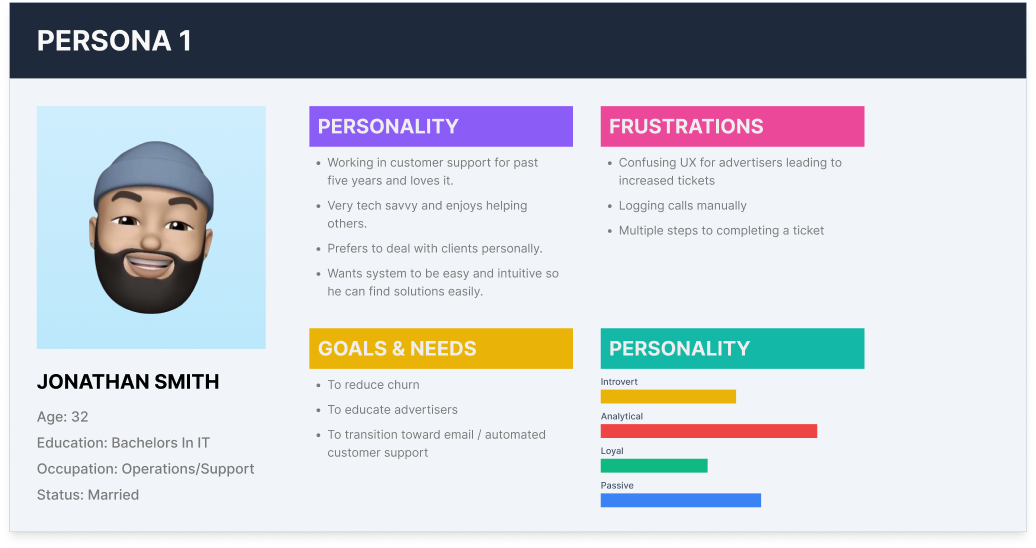
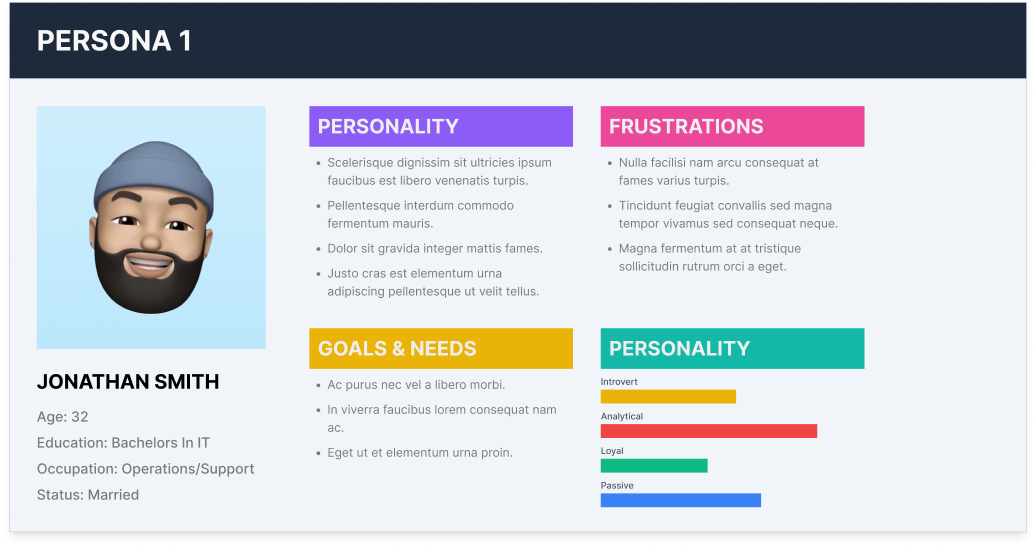
Case Study Changes

diff --git a/caseStudy/NepaWatch.html b/caseStudy/NepaWatch.html
@@ -436,7 +436,7 @@
 
                             <img src="/assets/src/images/Case-study/NepaWatch/User Persona.png" alt="">
 
-                            <img src="/assets/src/images/Case-study/NepaWatch/User Persona.png" alt="">
+                            <img src="/assets/src/images/Case-study/NepaWatch/User Persona2.png" alt="">
 
                             <p>
                                 Next, I started to create the <span style="font-weight: 700;">Information Architecture</span> for the website with the collected requirements.
